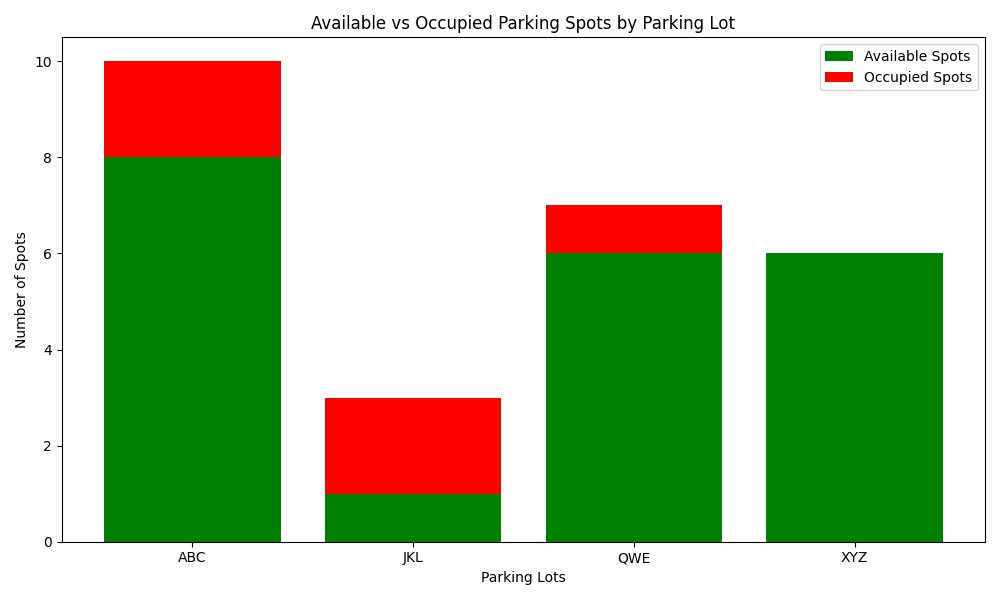
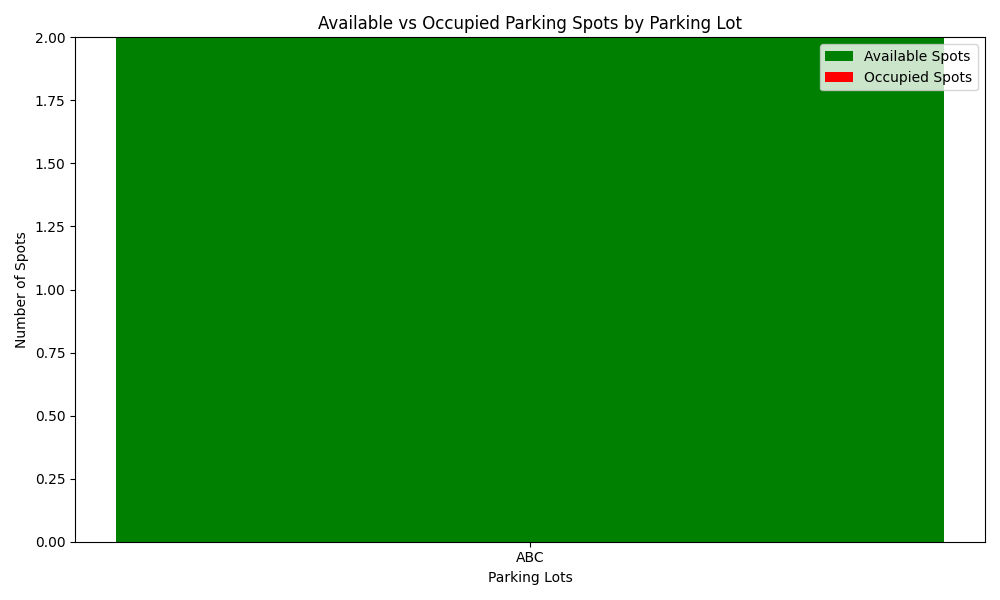
changes and additions

diff --git a/templates/parking.html b/templates/parking.html
@@ -19,10 +19,10 @@
     </button>
     <div class="collapse navbar-collapse" id="navbarAdmin">
       <ul class="navbar-nav ms-auto mb-2 mb-lg-0">
-        <li class="nav-item"><a class="nav-link fw-semibold" href="/admin">🏠 Home</a></li>
-        <li class="nav-item"><a class="nav-link fw-semibold" href="/admin_user">👥 Manage Users</a></li>
-        <li class="nav-item"><a class="nav-link fw-semibold" href="/summary">📊 Summary</a></li>
-        <li class="nav-item"><a class="nav-link fw-semibold" href="/logout">🚪 Logout</a></li>
+        <li class="nav-item"><a class="nav-link fw-semibold" href="/admin">Home</a></li>
+        <li class="nav-item"><a class="nav-link fw-semibold" href="/admin_user">Manage Users</a></li>
+        <li class="nav-item"><a class="nav-link fw-semibold" href="/summary">Summary</a></li>
+        <li class="nav-item"><a class="nav-link fw-semibold" href="/logout">Logout</a></li>
       </ul>
     </div>
   </div>
@@ -31,21 +31,20 @@
 <div class="container mt-4">
 
   <!-- Flash Messages -->
-{% with messages = get_flashed_messages(with_categories=true) %}
-  {% if messages %}
-    <div class="col-md-10 mx-auto">
-      {% for category, message in messages %}
-        <div class="alert alert-{{ 'danger' if category == 'error' else category }} alert-dismissible fade show mt-3" role="alert">
-          {{ message }}
-          <button type="button" class="btn-close" data-bs-dismiss="alert" aria-label="Close"></button>
-        </div>
-      {% endfor %}
-    </div>
-  {% endif %}
-{% endwith %}
+  {% with messages = get_flashed_messages(with_categories=true) %}
+    {% if messages %}
+      <div class="col-md-10 mx-auto">
+        {% for category, message in messages %}
+          <div class="alert alert-{{ 'danger' if category == 'error' else category }} alert-dismissible fade show mt-3" role="alert">
+            {{ message }}
+            <button type="button" class="btn-close" data-bs-dismiss="alert" aria-label="Close"></button>
+          </div>
+        {% endfor %}
+      </div>
+    {% endif %}
+  {% endwith %}
 
-
-  <!-- Enhanced Search Bar with Dropdown -->
+  <!-- Search Bar -->
   <div class="mb-4">
     <div class="col-md-10 mx-auto">
       <form class="row g-2 align-items-center" method="GET" action="/search">
@@ -66,7 +65,7 @@
     </div>
   </div>
 
-  <!-- Parking Lots Grid -->
+  <!-- Parking Grid -->
   <div class="row row-cols-1 row-cols-lg-3 g-4">
     {% if parkings|length == 0 %}
       <div class="d-flex justify-content-center align-items-center" style="height: 300px; width: 100%;">
@@ -85,26 +84,36 @@
             <div>
               <h5 class="card-title">{{ parking.prime_location_name }}</h5>
               <p class="card-text">{{ parking.address }}, {{ parking.pin_code }}</p>
-              <p class="text-muted">{{ available_counts[parking.id] }}/{{ parking.number_of_spots }} Spots Available</p>
+
+              {% set spot_map = dict() %}
+              {% for spot in parking.spots %}
+                {% if spot.spot_number not in spot_map %}
+                  {% set dummy = spot_map.update({spot.spot_number: spot.status}) %}
+                {% endif %}
+              {% endfor %}
+              {% set total_spots = spot_map | length %}
+              {% set available_spots = spot_map.values() | select('equalto', 'A') | list | length %}
+              <p class="text-muted">{{ available_spots }}/{{ total_spots }} Spots Available</p>
             </div>
+
             <div class="mb-2">
-              {% for spot in parking.spots if spot.spot_number <= parking.number_of_spots %}
+              {% for number, status in spot_map.items() %}
               <button 
                 type="button" 
                 class="btn btn-sm me-1 mb-1 
-                  {% if spot.status == 'O' %}
+                  {% if status == 'O' %}
                     btn-danger
                   {% else %}
                     btn-success
                   {% endif %}" 
                 data-bs-toggle="modal" 
-                data-bs-target="#spotModal{{ spot.id }}" 
-                title="View Spot {{ spot.spot_number }}">
-
-                <span>{{ spot.spot_number }}</span>
+                data-bs-target="#spotModal{{ number }}" 
+                title="View Spot {{ number }}">
+                <span>{{ number }}</span>
               </button>
               {% endfor %}
             </div>
+
             <div class="mt-auto d-flex justify-content-between">
               <a href="/edit_parking/{{ parking.id }}" class="btn btn-sm btn-warning">Edit</a>
               <form action="/delete_parking/{{ parking.id }}" method="POST" class="d-inline" onsubmit="return confirm('Are you sure you want to delete this parking lot?')">
@@ -118,7 +127,7 @@
     {% endif %}
   </div>
 
-  <!-- Add Parking Button -->
+  <!-- Add Parking -->
   <div class="text-center mt-5">
     <a href="/add_parking" class="btn btn-primary btn-lg">+ Add New Parking Lot</a>
   </div>
@@ -126,7 +135,7 @@
 
 <!-- Spot Modals -->
 {% for parking in parkings %}
-  {% for spot in parking.spots if spot.spot_number <= parking.number_of_spots %}
+  {% for spot in parking.spots %}
   <div class="modal fade" id="spotModal{{ spot.id }}" tabindex="-1" aria-labelledby="spotModalLabel{{ spot.id }}" aria-hidden="true">
     <div class="modal-dialog">
       <div class="modal-content">
@@ -139,7 +148,7 @@
           <p><strong>Status : </strong>{% if spot.status == 'A' %}Available{% else %}Occupied{% endif %}</p>
           <p><strong>Price : </strong>{{ parking.price }} Rs.</p>
           <p><strong>Parking Lot : </strong>{{ parking.prime_location_name }}</p>
-          
+
           {% if spot.status == 'O' and spot.bookings %}
             {% set latest_booking = (spot.bookings | sort(attribute='start_time'))[-1] %}
             <p><strong>Vehicle Number : </strong>{{ latest_booking.vehicle_number }}</p>

diff --git a/templates/summary.html b/templates/summary.html
@@ -22,7 +22,7 @@
   <div class="container">
     <!-- Logo or Brand Name -->
     <a class="navbar-brand fw-bold d-flex align-items-center" href="/admin">
-      <i class="bi bi-geo-alt-fill me-2"></i> SmartPark Admin
+      <i class="bi bi-geo-alt-fill me-2"></i> ParkEase Admin
     </a>
 
     <!-- Toggler for mobile -->
@@ -34,16 +34,16 @@
     <div class="collapse navbar-collapse" id="navbarAdmin">
       <ul class="navbar-nav ms-auto mb-2 mb-lg-0">
         <li class="nav-item">
-          <a class="nav-link fw-semibold" href="/admin">🏠 Home</a>
+          <a class="nav-link fw-semibold" href="/admin">Home</a>
         </li>
         <li class="nav-item">
-          <a class="nav-link fw-semibold" href="/parking">⚙️ Manage Parking</a>
+          <a class="nav-link fw-semibold" href="/parking">Manage Parking</a>
         </li>
         <li class="nav-item">
-          <a class="nav-link fw-semibold" href="/admin_user">👥 Manage Users</a>
+          <a class="nav-link fw-semibold" href="/admin_user">Manage Users</a>
         </li>
         <li class="nav-item">
-          <a class="nav-link fw-semibold" href="/logout">🚪 Logout</a>
+          <a class="nav-link fw-semibold" href="/logout">Logout</a>
         </li>
       </ul>
     </div>
@@ -65,6 +65,8 @@
       </div>
     </div>
 
+
+
     <div class="mt-5">
       <h4 class="text-center mb-3">📌 Parking Lot Details</h4>
       <table class="table table-striped table-bordered">
@@ -81,7 +83,7 @@
           <tr>
             <td>{{ lot.prime_location_name }}</td>
             <td>{{ lot.number_of_spots }}</td>
-            <td>{{ lot.spots | selectattr("status", "equalto", "A") | list | length }}</td>
+            <td>{{ lot.number_of_spots - (lot.spots | selectattr("status", "equalto", "O") | list | length) }}</td>
             <td>{{ lot.spots | selectattr("status", "equalto", "O") | list | length }}</td>
           </tr>
           {% endfor %}

diff --git a/templates/admin.html b/templates/admin.html
@@ -40,19 +40,19 @@
             <div class="collapse navbar-collapse" id="navbarAdmin">
       <ul class="navbar-nav ms-auto mb-2 mb-lg-0">
         <li class="nav-item">
-          <a class="nav-link fw-semibold" href="/admin">🏠 Home</a>
+          <a class="nav-link fw-semibold" href="/admin">Home</a>
         </li>
         <li class="nav-item">
-          <a class="nav-link fw-semibold" href="/parking">⚙️ Manage Parking</a>
+          <a class="nav-link fw-semibold" href="/parking">Manage Parking</a>
         </li>
         <li class="nav-item">
-          <a class="nav-link fw-semibold" href="/admin_user">👥 Manage Users</a>
+          <a class="nav-link fw-semibold" href="/admin_user">Manage Users</a>
         </li>
         <li class="nav-item">
-          <a class="nav-link fw-semibold" href="/summary">📊 Summary</a>
+          <a class="nav-link fw-semibold" href="/summary">Summary</a>
         </li>
         <li class="nav-item">
-          <a class="nav-link fw-semibold" href="/logout">🚪 Logout</a>
+          <a class="nav-link fw-semibold" href="/logout">Logout</a>
         </li>
       </ul>
     </div>

diff --git a/templates/manage_user.html b/templates/manage_user.html
@@ -25,16 +25,16 @@
     <div class="collapse navbar-collapse" id="navbarAdmin">
       <ul class="navbar-nav ms-auto mb-2 mb-lg-0">
         <li class="nav-item">
-          <a class="nav-link fw-semibold" href="/admin">🏠 Home</a>
+          <a class="nav-link fw-semibold" href="/admin">Home</a>
         </li>
         <li class="nav-item">
-          <a class="nav-link fw-semibold" href="/parking">⚙️ Manage Parking</a>
+          <a class="nav-link fw-semibold" href="/parking">Manage Parking</a>
         </li>
         <li class="nav-item">
-          <a class="nav-link fw-semibold" href="/summary">📊 Summary</a>
+          <a class="nav-link fw-semibold" href="/summary">Summary</a>
         </li>
         <li class="nav-item">
-          <a class="nav-link fw-semibold" href="/logout">🚪 Logout</a>
+          <a class="nav-link fw-semibold" href="/logout">Logout</a>
         </li>
       </ul>
     </div>

diff --git a/app.py b/app.py
@@ -6,7 +6,7 @@ import os
 from datetime import datetime
 import matplotlib.pyplot as plt
 import matplotlib
-matplotlib.use('Agg')  # Use a non-interactive backend for matplotlib
+matplotlib.use('Agg')
 
 def create_app():
     app = Flask(__name__)
@@ -107,6 +107,7 @@ def login():
             flash("Username and Password do not exist.", "danger")
             return redirect(url_for('login'))
     return render_template('login.html')
+
 
 @app.route('/register',methods=['GET','POST'])
 def register():
@@ -249,18 +250,31 @@ def edit_parking(parking_id):
             flash(f"Cannot set total spots less than currently occupied ({occupied_count}).", "danger")
             return render_template('edit_parking.html', parking=parking, occupied_count=occupied_count)
 
-        # Update fields
+        # Update parking fields
         parking.prime_location_name = prime_location_name
         parking.address = address
         parking.pin_code = pin_code
         parking.price = price
 
         current_total_spots = parking.number_of_spots
-        parking.number_of_spots = new_total_spots
-        db.session.commit()
 
-        # If spots increased, add new ParkingSpot rows
-        if new_total_spots > current_total_spots:
+        if new_total_spots < current_total_spots:
+            # Check if any extra spots (beyond new_total_spots) are occupied
+            extra_spots = ParkingSpot.query.filter(
+                ParkingSpot.parking_id == parking_id,
+                ParkingSpot.spot_number > new_total_spots
+            ).all()
+
+            if any(spot.status == 'O' for spot in extra_spots):
+                flash("Cannot reduce number of spots: some of the extra spots are occupied.", "danger")
+                return render_template('edit_parking.html', parking=parking, occupied_count=occupied_count)
+
+            # Delete all extra spots
+            for spot in extra_spots:
+                db.session.delete(spot)
+
+        elif new_total_spots > current_total_spots:
+            # Add new spots
             for spot_num in range(current_total_spots + 1, new_total_spots + 1):
                 new_spot = ParkingSpot(
                     parking_id=parking.id,
@@ -268,18 +282,18 @@ def edit_parking(parking_id):
                     status='A'
                 )
                 db.session.add(new_spot)
-            db.session.commit()
             flash(f"{new_total_spots - current_total_spots} new spot(s) added successfully.", "success")
         else:
             flash("Parking lot updated successfully.", "success")
 
-        return redirect(url_for('parking'))  # Change route if needed
+        parking.number_of_spots = new_total_spots
+        db.session.commit()
+
+        return redirect(url_for('parking'))
 
     # GET request
     occupied_count = ParkingSpot.query.filter_by(parking_id=parking_id, status='O').count()
     return render_template('edit_parking.html', parking=parking, occupied_count=occupied_count)
-
-
 
 
 @app.route('/delete_parking/<int:parking_id>', methods=['POST'])
@@ -367,16 +381,24 @@ def summary():
     occupied_counts = []
     revenue_by_lot = []
 
-    for lot in lots:
-        lot_names.append(lot.prime_location_name)
-        available_counts.append(ParkingSpot.query.filter_by(parking_id=lot.id, status='A').count())
-        occupied_counts.append(ParkingSpot.query.filter_by(parking_id=lot.id, status='O').count())
+    total_revenue = 0
 
-        total_revenue = 0
-        for spot in lot.spots:
-            for booking in spot.bookings:
-                total_revenue += booking.parking_cost or 0
-        revenue_by_lot.append(total_revenue)
+    for lot in lots:
+        occupied = ParkingSpot.query.filter_by(parking_id=lot.id, status='O').count()
+        total = lot.number_of_spots
+        available = total - occupied
+
+        lot_names.append(lot.prime_location_name)
+        occupied_counts.append(occupied)
+        available_counts.append(available)
+
+        revenue = occupied * lot.price
+        revenue_by_lot.append(revenue)
+        total_revenue += revenue
+
+        print(f"Revenue from {lot.prime_location_name}: ₹{revenue:.2f}")
+        
+
 
     # Bar chart
     plt.figure(figsize=(10, 6))
@@ -390,15 +412,32 @@ def summary():
     bar_chart_path = os.path.join(app.config['CHART_FOLDER'], 'bar_chart.png')
     plt.savefig(bar_chart_path)
     plt.close()
+    
 
-    # Pie chart
-    plt.figure(figsize=(10, 6))
-    plt.pie(revenue_by_lot, labels=lot_names, autopct='%1.1f%%')
-    plt.title('Revenue by Parking Lot')
-    plt.tight_layout()
-    pie_chart_path = os.path.join(app.config['CHART_FOLDER'], 'pie_chart.png')
-    plt.savefig(pie_chart_path)
-    plt.close()
+    
+    # Pie chart: Revenue Share from Each Parking Lot (only show lots with non-zero revenue)
+    non_zero_lots = [(name, rev) for name, rev in zip(lot_names, revenue_by_lot) if rev > 0]
+
+    if non_zero_lots:
+        filtered_names, filtered_revenue = zip(*non_zero_lots)
+
+        plt.figure(figsize=(10, 6))
+        plt.pie(
+            filtered_revenue,
+            labels=filtered_names,
+            autopct=lambda p: f'{p:.1f}%\n₹{p * sum(filtered_revenue) / 100:.0f}',
+            startangle=140,
+            
+        )
+        plt.title(f'Revenue Contribution by Parking Lot\nTotal Revenue: ₹{total_revenue}', fontsize=14)
+        plt.tight_layout()
+
+        pie_chart_path = os.path.join(app.config['CHART_FOLDER'], 'pie_chart.png')
+        plt.savefig(pie_chart_path)
+        plt.close()
+    else:
+        pie_chart_path = None
+
 
     bar_chart_url = url_for('static', filename='charts/bar_chart.png')
     pie_chart_url = url_for('static', filename='charts/pie_chart.png')
@@ -408,9 +447,6 @@ def summary():
 
     return render_template('summary.html', bar_chart_url=bar_chart_url, pie_chart_url=pie_chart_url, lots=lots)
 
-import os
-import matplotlib.pyplot as plt
-from flask import render_template, session, redirect, url_for
 
 @app.route('/user_summary', methods=['GET'])
 def user_summary():